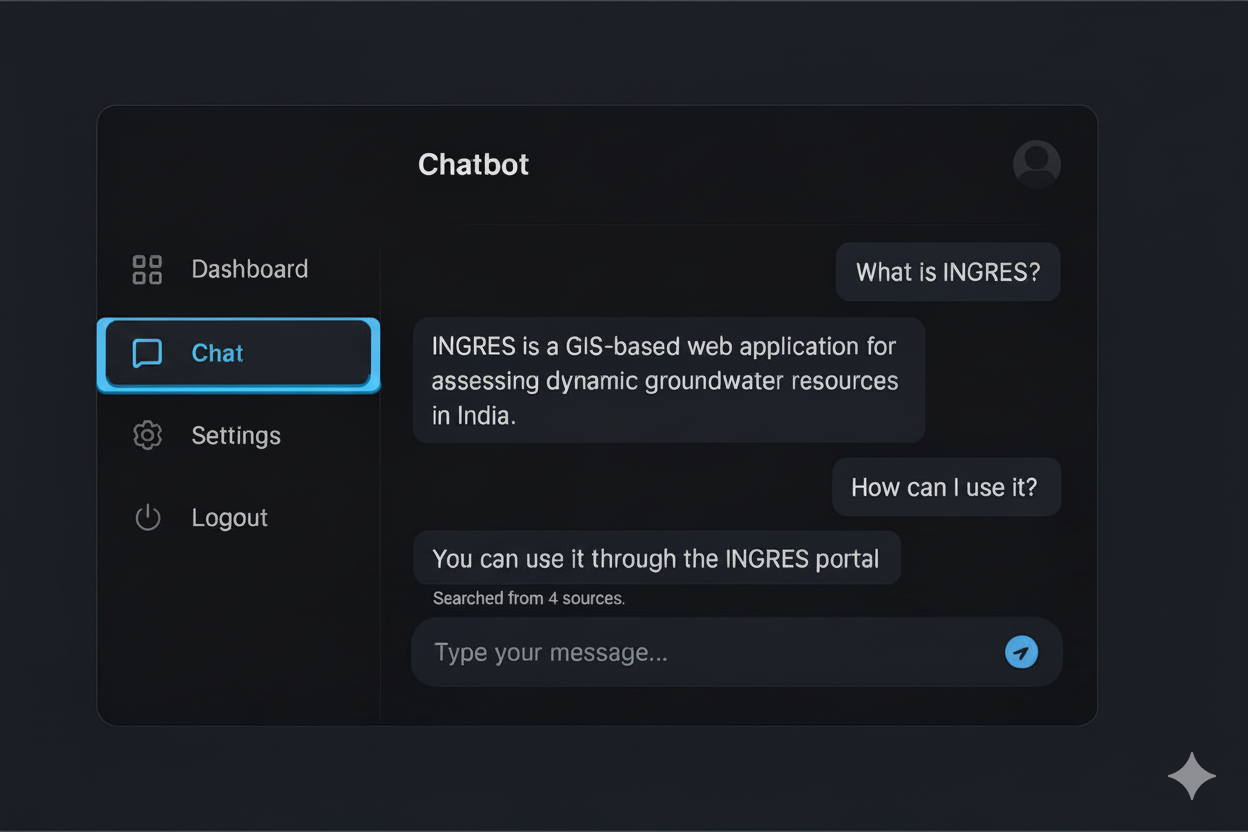
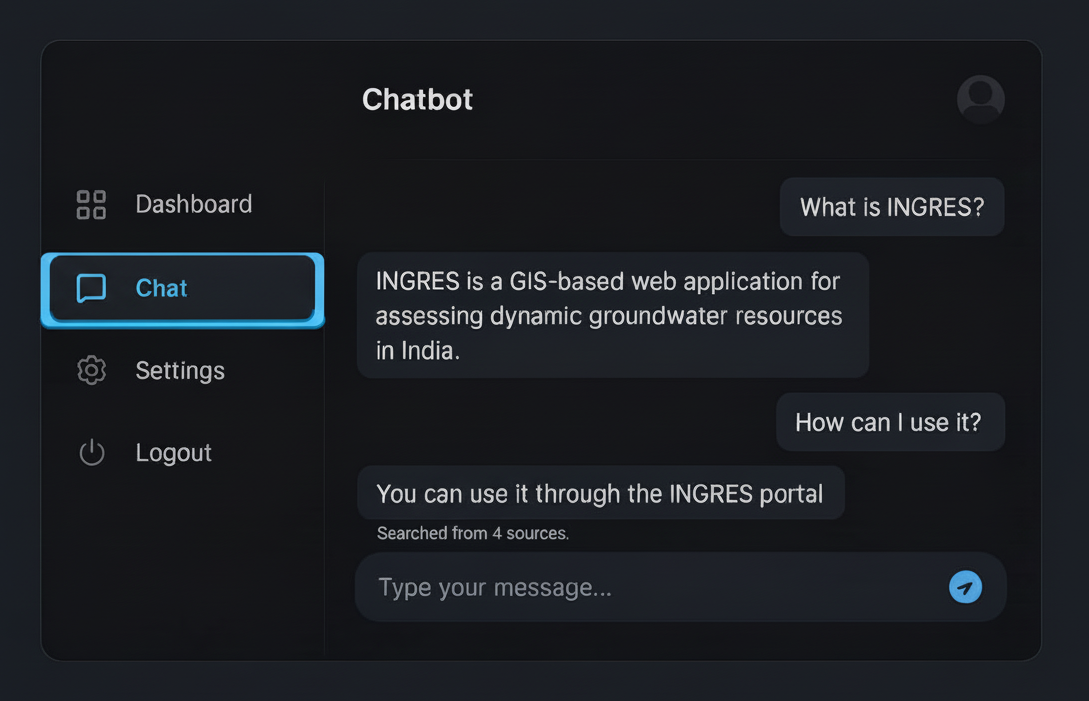
constructed a good readme file and edited the image

diff --git a/readme.md b/readme.md
@@ -1,1 +1,258 @@
 ![](./assets/photos/uiux%20main.png)
+
+# AquaGPT
+
+> An AI-powered chatbot for exploring and understanding India's groundwater and water resource data using natural language.
+
+![AquaGPT UI](./uiux-main.png)
+
+---
+
+## Overview
+
+AquaGPT is an intelligent AI assistant that enables users to access and understand India's groundwater resource information through simple conversations.
+
+Instead of navigating complex GIS dashboards and datasets, users can ask questions in plain English and receive accurate, AI-generated responses backed by data from the IN-GRES (India Groundwater Resource Estimation System) platform.
+
+The project combines modern AI, a responsive web interface, and groundwater datasets to make water-related information accessible to researchers, students, policymakers, government officials, and the general public.
+
+---
+
+## Key Features
+
+### AI-Powered Conversations
+
+Ask questions such as:
+
+- What is the groundwater status of Uttar Pradesh?
+- Which districts in Rajasthan are over-exploited?
+- How much groundwater recharge occurred last year?
+- Compare groundwater availability between Punjab and Haryana.
+
+### Water Resource Intelligence
+
+- Groundwater resource assessment
+- Groundwater extraction statistics
+- Recharge and replenishment data
+- State-wise and district-wise analysis
+- Groundwater categorization insights
+- Historical trend analysis
+
+### Data-Driven Responses
+
+- Information sourced from the IN-GRES database
+- Accurate and contextual answers
+- Government-backed groundwater datasets
+- Easy-to-understand explanations
+
+### Modern User Experience
+
+- Responsive Next.js interface
+- Clean dark-themed design
+- Fast conversational workflow
+- Mobile-friendly UI
+
+---
+
+## Tech Stack
+
+### Frontend
+
+- Next.js
+- React.js
+- Tailwind CSS
+- TypeScript
+
+### Backend
+
+- Node.js
+- Express.js / Next.js API Routes
+- Database Integration Layer
+
+### AI Layer
+
+- Google Gemini API
+- Retrieval-Augmented Generation (RAG)
+- Prompt Engineering
+
+### Data Source
+
+- IN-GRES (India Groundwater Resource Estimation System)
+- IIT Hyderabad
+- Central Ground Water Board (CGWB)
+
+---
+
+## System Architecture
+
+```text
++-------------------+
+|       User        |
++---------+---------+
+          |
+          v
++-------------------+
+|   Next.js Frontend|
++---------+---------+
+          |
+          v
++-------------------+
+|    Backend API    |
++---------+---------+
+          |
+    +-----+-----+
+    |           |
+    v           v
++--------+  +---------+
+| Gemini |  | IN-GRES |
+|   AI   |  | Database|
++--------+  +---------+
+    |           |
+    +-----+-----+
+          |
+          v
++-------------------+
+| AI Generated Reply|
++-------------------+
+```
+
+---
+
+## How It Works
+
+1. User submits a question through the chat interface.
+2. Backend processes the request.
+3. Relevant groundwater data is fetched from the IN-GRES database.
+4. Retrieved information is provided to Gemini as context.
+5. Gemini generates a human-readable response.
+6. The response is displayed in the chat interface.
+
+---
+
+## Installation
+
+### Clone Repository
+
+```bash
+git clone https://github.com/yourusername/aquagpt.git
+cd aquagpt
+```
+
+### Install Dependencies
+
+```bash
+npm install
+```
+
+### Configure Environment Variables
+
+Create a `.env.local` file:
+
+```env
+GEMINI_API_KEY=your_gemini_api_key
+
+DATABASE_URL=your_database_connection_string
+
+INGRES_API_URL=https://ingres.iith.ac.in
+```
+
+### Run Development Server
+
+```bash
+npm run dev
+```
+
+Open:
+
+```text
+http://localhost:3000
+```
+
+---
+
+## Example Queries
+
+```text
+What is the groundwater status of Karnataka?
+```
+
+```text
+Show groundwater extraction trends in Punjab.
+```
+
+```text
+Which districts are categorized as over-exploited?
+```
+
+```text
+Compare groundwater availability in Maharashtra and Gujarat.
+```
+
+```text
+Explain annual groundwater recharge.
+```
+
+---
+
+## Project Objectives
+
+- Simplify access to groundwater information.
+- Improve public awareness of water resources.
+- Support research and policymaking.
+- Enable data-driven decisions.
+- Make government datasets easier to understand.
+
+---
+
+## Future Scope
+
+- Voice Assistant Support
+- Regional Language Support
+- Interactive GIS Maps
+- Water Quality Analysis
+- Predictive Groundwater Analytics
+- Mobile Application
+- PDF Report Generation
+- Advanced RAG Pipeline
+
+---
+
+## Repository Structure
+
+```text
+aquagpt/
+│
+├── public/
+├── src/
+│   ├── app/
+│   ├── components/
+│   ├── services/
+│   ├── api/
+│   └── utils/
+│
+├── database/
+├── docs/
+├── .env.local
+├── package.json
+└── README.md
+```
+
+---
+
+## Impact
+
+AquaGPT bridges the gap between complex groundwater datasets and everyday users by providing a conversational interface for exploring India's water resources. The platform transforms technical groundwater assessments into actionable insights that can support education, planning, conservation, and decision-making.
+
+---
+
+## License
+
+MIT License
+
+---
+
+## Team
+
+**AquaGPT**
+
+Making India's groundwater data accessible through AI.